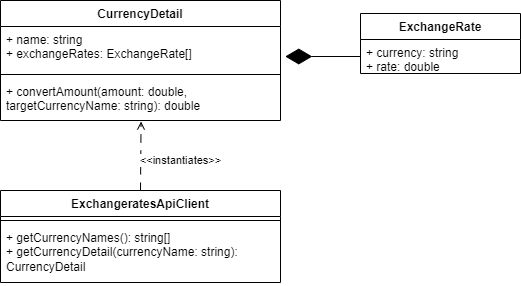
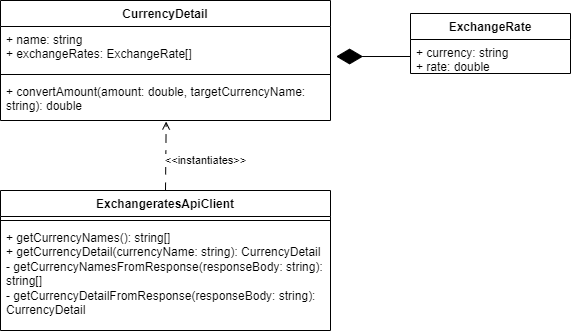
Updated class diagram and its description, also altered readme links and added table of contents to documentation readme

diff --git a/documentation/README.md b/documentation/README.md
@@ -2,6 +2,17 @@
 
 This file contains all the documentation to CurrCalc's design. This includes functional requirements, non-functional requirements, and architectural diagrams and descriptions.
 
+## Table of Contents
+1. **[Premise](#premise)**</br>
+2. **[Requirements](#requirements)**</br>
+  2.1 **[Functional Requirements](#functional-requirements)**</br>
+  2.2 **[Non-Functional Requirements](#non-functional-requirements)**</br>
+3. **[Architecture](#architecture)**</br>
+  3.1 **[Rough Overview](#rough-overview)**</br>
+  3.2 **[Use Cases](#use-cases)**</br>
+  3.3 **[Class Diagram](#class-diagram)**</br>
+  3.4 **[Activity Diagram](#activity-diagram)**</br>
+
 # Premise
 
 CurrCalc is a C++ program written in C++20. To begin with it will remain strictly a console application. 
@@ -40,8 +51,7 @@ The flow is as follows: a user interacts with the CurrCalc program by selecting 
 ![CurrCalc Use Case Diagram](https://github.com/DusDus3428/CPP_CurrCalc/blob/feature/01_design/documentation/images/diagrams/02_CurrCalc_UseCaseDiagram.png "CurrCalc Use Case Diagram")
 
 There is only one possible use case when interacting with CurrCalc. The "Convert Currency" use case is triggered when the user starts the program, therefore the user is the primary actor. The exchangesrate API is a secondary actor in this use case as CurrCalc must fetch the currency information from it.
-
-### Use Case Descriptions
+Here is a classical use case description for the Convert Currency use case:
 
 <table>
   <tr>
@@ -183,9 +193,10 @@ There is only one possible use case when interacting with CurrCalc. The "Convert
 
 ![CurrCalc Class Diagram](https://github.com/DusDus3428/CPP_CurrCalc/blob/feature/01_design/documentation/images/diagrams/03_CurrCalc_ClassDiagram.png "CurrCalc Class Diagram")
 
-There are only two classes: CurrencyDetail and ExchangeRate.<br/> 
+There are three classes: CurrencyDetail, ExchangeRate, and ExchangeratesApiClient.<br/> 
 CurrencyDetail holds two public properties, a string called "name" for the name of the currency, and a list of ExchangeRate objects called "exchangeRates". The latter leads to a composition relationship from CurrencyDetail to ExchangeRate. CurrencyDetail also has the public "convertAmount" method, which takes a specified conversion amount, and the name of the target currency as arguments. The method will leverage the exchangeRates property to conduct the conversion.<br/>
-ExchangeRate also holds two public properties, a string called "currencyName" for the name of the currency, and a double called "rate" for the actual exchange rate.
+ExchangeRate also holds two public properties, a string called "currencyName" for the name of the currency, and a double called "rate" for the actual exchange rate.<br/>
+And then there is the ExchangeratesApiClient class. As its name states, it represents the client that sends requests to the exchangesrates API and handles the responses. It does not have any attributes, but four methods. The method getCurrencyNames() sends a request to the API to retrieve the list of currency names and then utilizes the private getCurrencyNamesFromResponse() method to extract and transform the names into a list of strings. Similarly, getCurrencyDetail() sends a request to the API to retrieve the currency detail using the name of the chosen initial currency. Then it utilizes the private getCurrencyDetailFromResponse() method to extract and transform the information into a CurrencyDetail object.
 
 ## Activity Diagram
 
